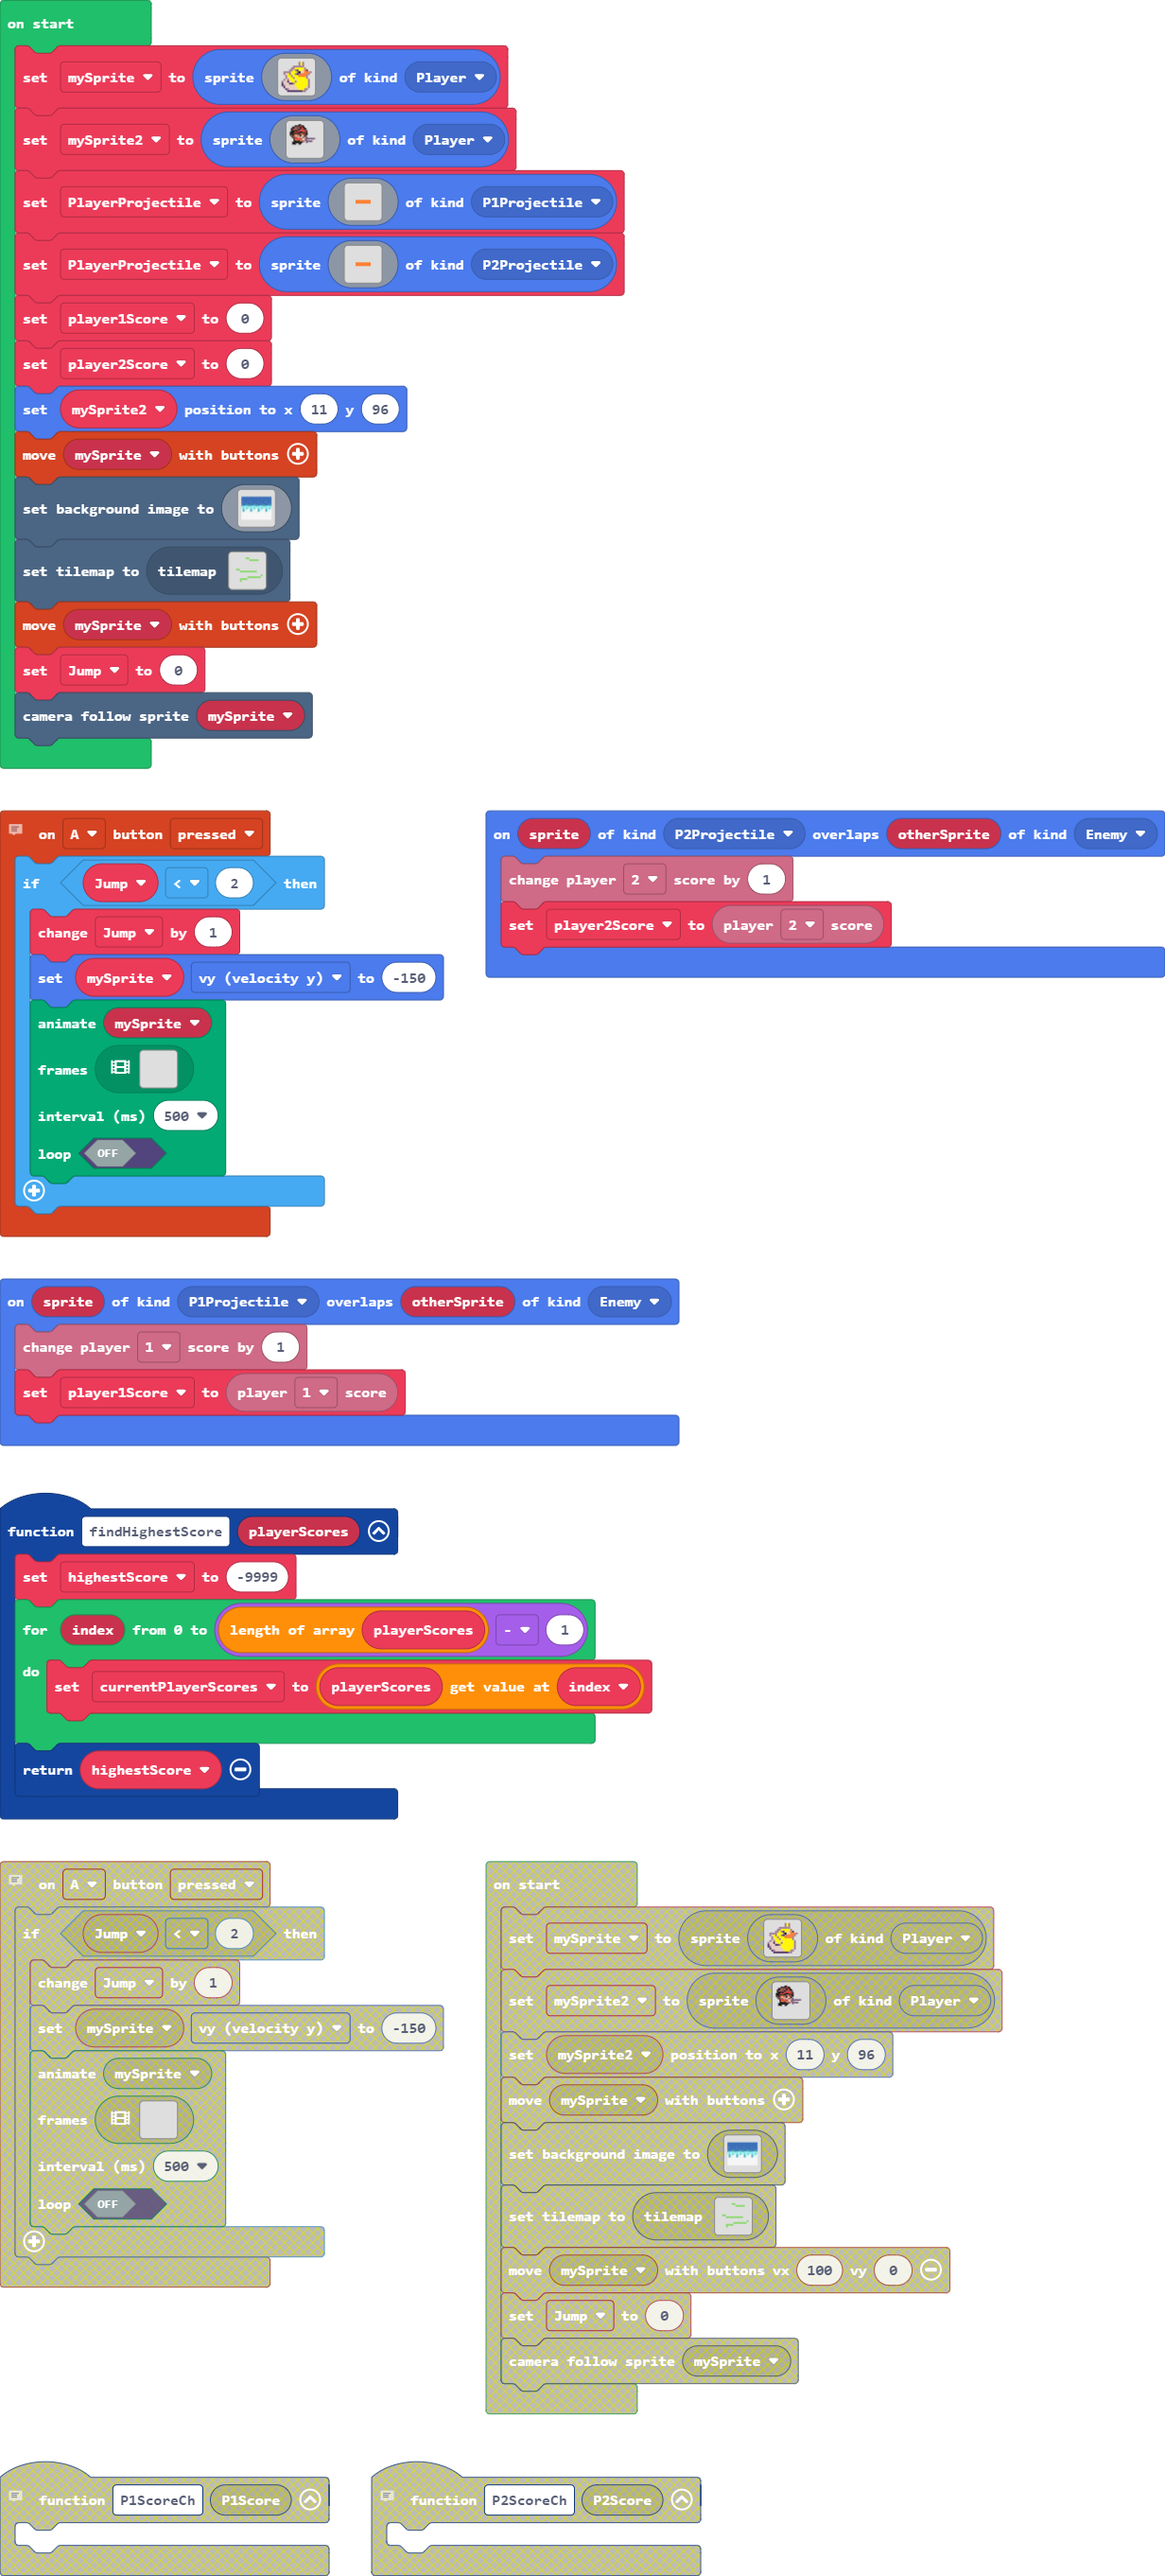
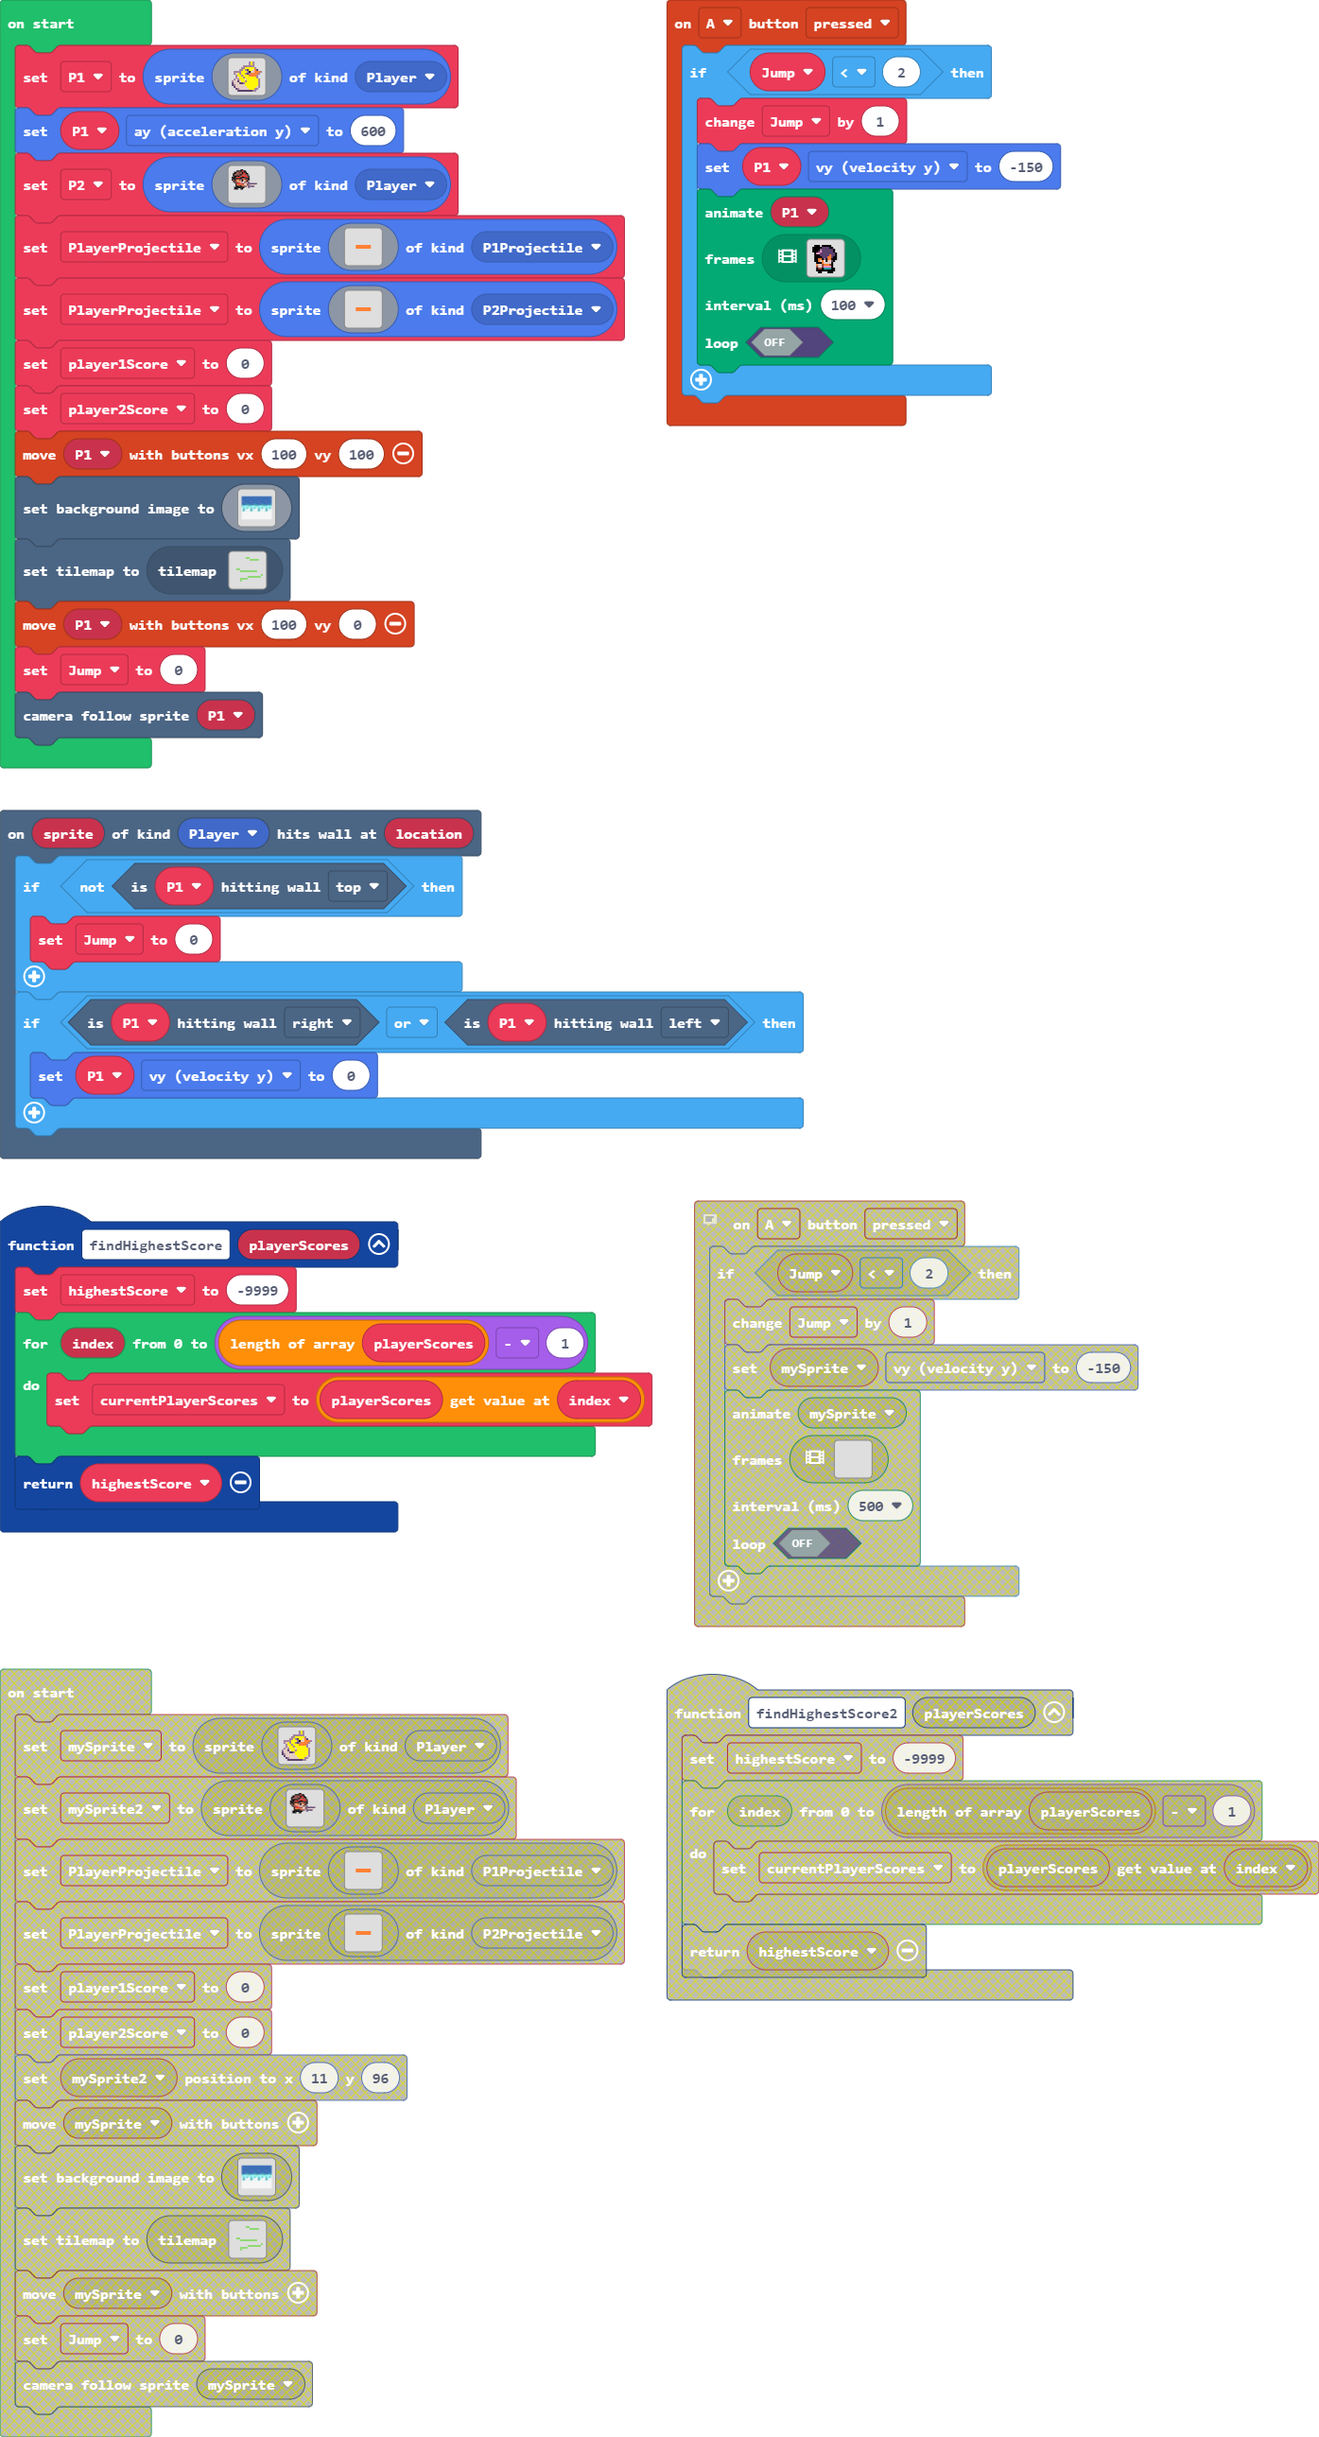
Update pxt.json, main.blocks, main.ts, tilemap.g.jres, tilemap.g.ts

diff --git a/main.ts b/main.ts
@@ -2,6 +2,14 @@ namespace SpriteKind {
     export const P1Projectile = SpriteKind.create()
     export const P2Projectile = SpriteKind.create()
 }
+scene.onHitWall(SpriteKind.Player, function (sprite, location) {
+    if (!(P1.isHittingTile(CollisionDirection.Top))) {
+        Jump = 0
+    }
+    if (P1.isHittingTile(CollisionDirection.Right) || P1.isHittingTile(CollisionDirection.Left)) {
+        P1.vy = 0
+    }
+})
 function findHighestScore (playerScores: number[]) {
     highestScore = -9999
     for (let index = 0; index <= playerScores.length - 1; index++) {
@@ -9,32 +17,65 @@ function findHighestScore (playerScores: number[]) {
     }
     return highestScore
 }
-// Will be called when P1 hits target
 controller.A.onEvent(ControllerButtonEvent.Pressed, function () {
     if (Jump < 2) {
         Jump += 1
-        mySprite.vy = -150
+        P1.vy = -150
         animation.runImageAnimation(
-        mySprite,
+        P1,
         [img`
-            . . . . . . . . . . . . . . . . 
-            . . . . . . . . . . . . . . . . 
-            . . . . . . . . . . . . . . . . 
-            . . . . . . . . . . . . . . . . 
-            . . . . . . . . . . . . . . . . 
-            . . . . . . . . . . . . . . . . 
-            . . . . . . . . . . . . . . . . 
-            . . . . . . . . . . . . . . . . 
-            . . . . . . . . . . . . . . . . 
-            . . . . . . . . . . . . . . . . 
-            . . . . . . . . . . . . . . . . 
-            . . . . . . . . . . . . . . . . 
-            . . . . . . . . . . . . . . . . 
-            . . . . . . . . . . . . . . . . 
-            . . . . . . . . . . . . . . . . 
-            . . . . . . . . . . . . . . . . 
+            . . . . . . . . . . . . . . 
+            . f f f . f f f f f . . . . 
+            f f f f f c c c c f f . . . 
+            f f f f b c c c c c c f . . 
+            f f f c 3 c c c c c c f . . 
+            . f 3 3 c c c c c c c c f . 
+            . f f f c c c c c 4 c c f . 
+            . f f f f c c c 4 4 c f f . 
+            . f f 4 4 f b f 4 4 f f f . 
+            . f f 4 d 4 1 f d d c f . . 
+            . . f f f 4 d d d d f . . . 
+            . . 4 d d e 4 4 4 e f . . . 
+            . . e d d e 3 3 3 3 f . . . 
+            . . f e e f 6 6 6 6 f f . . 
+            . . f f f f f f f f f f . . 
+            . . . f f . . . f f f . . . 
+            `,img`
+            . . . . . . . . . . . . . . 
+            . f f f . f f f f f . . . . 
+            f f f f f c c c c f f . . . 
+            f f f f b c c c c c c f . . 
+            f f f c 3 c c c c c c f . . 
+            . f 3 3 c c c c c c c c f . 
+            . f f f c c c c c 4 c c f . 
+            . f f f f c c c 4 4 c f f . 
+            . f f 4 4 f b f 4 4 f f f . 
+            . . f 4 d 4 1 f d d f f . . 
+            . . f f f e e d d d f . . . 
+            . . . f 4 d d e 4 e f . . . 
+            . . . f e d d e 3 3 f . . . 
+            . . f f f e e f 6 6 f f . . 
+            . . f f f f f f f f f f . . 
+            . . . f f . . . f f f . . . 
+            `,img`
+            . f f f . f f f f f . . . . 
+            f f f f f c c c c f f . . . 
+            f f f f b c c c c c c f . . 
+            f f f c 3 c c c c c c f . . 
+            . f 3 3 c c c c c c c c f . 
+            . f f f c c c c c 4 c c f . 
+            . f f f f c c c 4 4 e f f . 
+            . f f 4 4 f b f 4 4 e f f . 
+            . . f 4 d 4 1 f d d f f . . 
+            . . f f f 4 d d d d f . . . 
+            . . . f e e 4 4 4 e f . . . 
+            . . . 4 d d e 3 3 3 f . . . 
+            . . . e d d e 3 3 3 f . . . 
+            . . . f e e f 6 6 6 f . . . 
+            . . . . f f f f f f . . . . 
+            . . . . . f f f . . . . . . 
             `],
-        500,
+        100,
         false
         )
     }
@@ -52,8 +93,8 @@ let highestScore = 0
 let Jump = 0
 let player2Score = 0
 let player1Score = 0
-let mySprite: Sprite = null
-mySprite = sprites.create(img`
+let P1: Sprite = null
+P1 = sprites.create(img`
     . . . . . . . . . b 5 b . . . . 
     . . . . . . . . . b 5 b . . . . 
     . . . . . . b b b b b b . . . . 
@@ -71,7 +112,8 @@ mySprite = sprites.create(img`
     . . c b d d d d d 5 5 5 b b . . 
     . . . c c c c c c c c b b . . . 
     `, SpriteKind.Player)
-let mySprite2 = sprites.create(img`
+P1.ay = 600
+let P2 = sprites.create(img`
     .......ff...............
     ....ffff2ff.............
     ..ffeeeef2ff............
@@ -135,8 +177,7 @@ PlayerProjectile = sprites.create(img`
     `, SpriteKind.P2Projectile)
 player1Score = 0
 player2Score = 0
-mySprite2.setPosition(11, 96)
-controller.moveSprite(mySprite)
+controller.moveSprite(P1, 100, 100)
 scene.setBackgroundImage(img`
     8888888888888888888888888888888888888888888888888888888888888888888888888888888888888888888888888888888888888888888888888888888888888888888888888888888888888888
     8888888888888888888888888888888888888888888888888888888888888888888888888888888888888888888888888888888888888888888888888888888888888888888888888888888888888888
@@ -260,6 +301,6 @@ scene.setBackgroundImage(img`
     1111111111111111111111111111111111111111111111111111111111111111111111111111111111111111111111111111111111111111111111111111111111111111111111111111111111111111
     `)
 tiles.setCurrentTilemap(tilemap`level1`)
-controller.moveSprite(mySprite)
+controller.moveSprite(P1, 100, 0)
 Jump = 0
-scene.cameraFollowSprite(mySprite)
+scene.cameraFollowSprite(P1)

diff --git a/tilemap.g.ts b/tilemap.g.ts
@@ -5,6 +5,25 @@ namespace myTiles {
 
     helpers._registerFactory("tilemap", function(name: string) {
         switch(helpers.stringTrim(name)) {
+            case "level2":
+            case "level2":return tiles.createTilemap(hex`1000100000000000000000000000000000000000000000000000000000000000000000000000000000000000000000000000000000000000000000000000000000000000000000000000000000000000000000000000000000000000000000000000000000000000000000000000000000000000000000000000000000000000000000000000000000000000000000000000000000000000000000000000000000000000000000000000000000000000000000000000000000000000000000000000000000000000000000000000000000000000000000000000000000000000000000000000000000000000000000000000000000000000000000000000000000000000`, img`
+. . . . . . . . . . . . . . . . 
+. . . . . . . . . . . . . . . . 
+. . . . . . . . . . . . . . . . 
+. . . . . . . . . . . . . . . . 
+. . . . . . . . . . . . . . . . 
+. . . . . . . . . . . . . . . . 
+. . . . . . . . . . . . . . . . 
+. . . . . . . . . . . . . . . . 
+. . . . . . . . . . . . . . . . 
+. . . . . . . . . . . . . . . . 
+. . . . . . . . . . . . . . . . 
+. . . . . . . . . . . . . . . . 
+. . . . . . . . . . . . . . . . 
+. . . . . . . . . . . . . . . . 
+. . . . . . . . . . . . . . . . 
+. . . . . . . . . . . . . . . . 
+`, [myTiles.transparency16], TileScale.Sixteen);
             case "level1":
             case "level1":return tiles.createTilemap(hex`1000100000000000000000000000000000000000000000000000000101000000000000000000000000000000000101010101000000000000000000000000000000000000000000000000000000000000000000000000000000000000000000000000000000000000000000000000000000000000000001010000000000000000000000000000000001010101010101010100000000000000000000000000000000000000000000000000000000000000000000010000000000000000010101010101010000000000010101010000000000000000000000000100000000000000000000000000000000000000000000000000000000000000000000000000000000000000`, img`
 . . . . . . . . . . . . . . . . 
@@ -15,12 +34,12 @@ namespace myTiles {
 . . . . . . . . . . . . . . . . 
 . . . . . . . . . . . . . . . . 
 . . . . . . . . . . . . . . . . 
-. . . . . . . . . . . . . . . . 
-. . . . . . . . . . . . . . . . 
-. . . . . . . . . . . . . . . . 
-. . . . . . . . . . . . . . . . 
-. . . . . . . . . . . . . . . . 
-. . . . . . . . . . . . . . . . 
+. . . . . 2 2 2 2 2 2 2 2 . . . 
+. . . . . . . 2 2 2 2 . . . . . 
+. . . . . . . . . . . . . . . 2 
+. . . . . . . . 2 2 2 2 2 2 2 . 
+. . . . 2 2 2 2 . . . . . . . . 
+. . . . 2 . . . . . . . . . . . 
 . . . . . . . . . . . . . . . . 
 . . . . . . . . . . . . . . . . 
 `, [myTiles.transparency16,sprites.castle.tileGrass2], TileScale.Sixteen);
